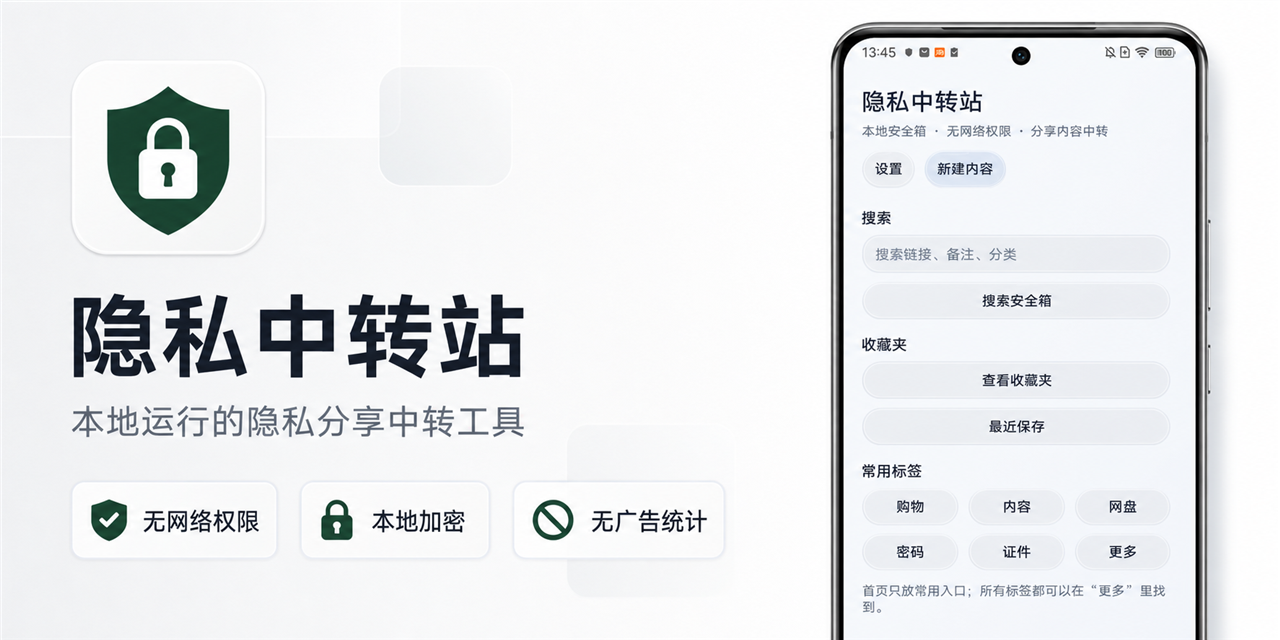
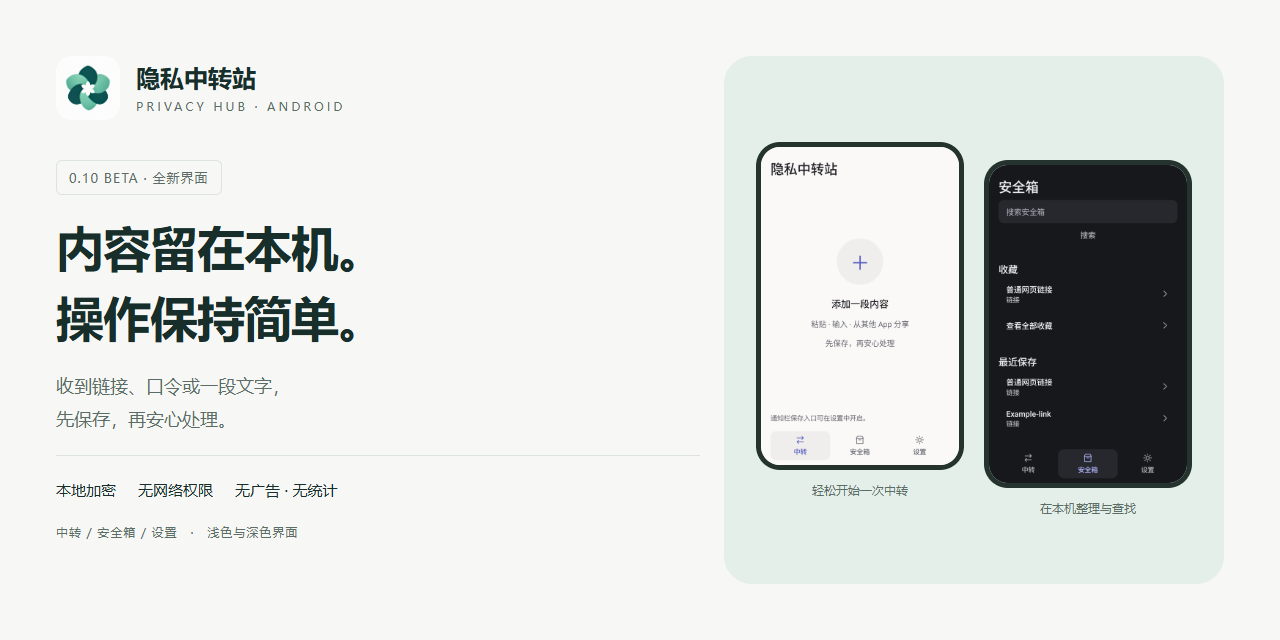
docs: refresh 0.10.0 release page, flower identity and real UI screenshots

diff --git a/README.md b/README.md
@@ -1,6 +1,6 @@
 # 隐私中转站 Android
 
-![隐私中转站：本地运行、无网络权限、本地加密](assets/social-preview.png)
+![隐私中转站 0.10：内容留在本机，操作保持简单。新版花形标识与浅深色真实界面](assets/social-preview.png)
 
 一个由用户主动触发、默认离线运行的 Android 隐私中转工具。即使关闭购物、内容和网盘 App 的剪贴板读取能力，也能通过系统分享或通知栏入口保存、识别并打开收到的链接和口令。
 
@@ -8,7 +8,16 @@
 
 **[下载最新版 APK](https://github.com/hzy7003-bit/PrivacyHub-Android-Preview/releases/latest)** · **[查看隐私证据](docs/SecurityEvidence.md)** · **[安装说明](docs/Install.md)**
 
-> 当前公开测试版：`v0.9.27-beta`。公测包使用独立正式证书签名；已安装 Debug 包的设备不能直接覆盖安装 Release 包。
+> 当前公开测试版：`v0.10.0-beta`。沿用原正式证书，公开 Release 用户可覆盖升级；Debug 测试包不能与 Release 互相覆盖，请不要为换版本直接卸载有数据的应用。
+
+## 这次，界面重新整理了
+
+- **中转**：粘贴、输入或从其他 App 分享，先保存，再处理；空闲页不展示敏感历史。
+- **安全箱**：搜索、收藏、最近保存与分类，各有明确入口；查看和编辑分开。
+- **设置**：通知快捷操作、隐私选项与使用指南按需开启。
+- 新花中花标识、统一浅深色界面；通知紧凑内容里直接提供两个操作，按钮更轻巧。
+
+仍然使用 Android 原生界面，不新增账号、联网权限或云服务。新版说明和兼容性边界见 [更新日志](CHANGELOG.md) 与 [已知问题](docs/KnownIssues.md)。
 
 ## 早期体验用户：免费永久 Pro
 
@@ -38,10 +47,12 @@
 ## 产品界面
 
 <p align="center">
-  <img src="assets/screenshots/home.png" width="360" alt="隐私中转站首页，包含搜索、收藏、最近保存和常用标签" />
+  <img src="assets/screenshots/home.png" width="240" alt="新版中转空闲页：添加一段内容，先保存再处理" />
+  <img src="assets/screenshots/vault.png" width="240" alt="新版安全箱：搜索、收藏和最近保存，仅虚构示例" />
+  <img src="assets/screenshots/vault-dark.png" width="240" alt="新版深色安全箱，仅虚构示例" />
 </p>
 
-首页提供搜索、收藏夹、最近保存和常用分类入口。截图仅展示空白界面，不包含安全箱正文、设备码或 License 信息。
+截图取自正式签名 APK 在独立 Android 测试环境中的实际界面，仅裁去系统状态栏和系统导航栏，未重绘 App 界面。内容为公开虚构示例，不使用真实用户安全箱、设备码或 License 信息。通知外框、图标与折叠样式由系统控制，不保证各厂商外观相同。
 
 ## 核心能力
 
@@ -61,7 +72,7 @@
 
 - 使用 Android 官方前台服务和常驻通知，降低普通后台进程被系统立即回收的概率。
 - 服务被系统回收后可按 `START_STICKY` 机制尝试恢复。
-- 用户开启对应选项后，可在设备重启或 App 更新后恢复通知栏入口。
+- App 更新时尝试刷新已开启的通知栏入口；开机恢复由单独选项控制，实际恢复仍受系统限制。
 - 不通过持续唤醒、定时拉起、后台联网或高频任务换取保活，优先控制内存与电量开销。
 
 这是面向长时间可用性的低功耗实现，不是“永不被杀”的承诺。系统强制停止、通知权限关闭，以及三星、vivo、OPPO、小米等厂商 ROM 的自启动或电池策略，仍可能阻止或延迟恢复。
@@ -92,7 +103,7 @@ Android 10+ 和不同厂商 ROM 会限制后台剪贴板读取、通知常驻、
 ## 下载与校验
 
 - [进入 Releases](https://github.com/hzy7003-bit/PrivacyHub-Android-Preview/releases/latest)
[2 lines of base64/hex data omitted]
 - 最低支持 Android 8.0（API 26）
 
 ## 反馈与关注

diff --git a/docs/Privacy.md b/docs/Privacy.md
@@ -13,7 +13,7 @@
 ## 已使用权限
 
 - `POST_NOTIFICATIONS`：显示用户主动开启的通知栏保存入口
-- `RECEIVE_BOOT_COMPLETED`：用户开启通知栏入口后，重启设备时尝试恢复入口
+- `RECEIVE_BOOT_COMPLETED`：用户同时开启通知栏入口与开机恢复选项后，重启设备时尝试恢复入口
 - `FOREGROUND_SERVICE` / `FOREGROUND_SERVICE_SPECIAL_USE`：维持用户主动开启的通知栏快捷入口
 - `USE_BIOMETRIC` / `USE_FINGERPRINT`：敏感模块可选安全验证
 
@@ -28,7 +28,7 @@
 
 通知栏入口启用后，后台服务只负责维持系统前台通知。空闲期间不轮询剪贴板、不发起网络请求、不执行定时扫描、不重复写入数据库，也不持有唤醒锁。读取、解析和保存只在用户点击通知动作后短暂执行。
 
-服务使用 `START_STICKY` 提高被系统回收后的恢复机会；用户开启恢复选项后，也会在设备重启或 App 更新后尝试恢复通知栏入口。这些机制旨在兼顾长时间可用性与低后台占用，不绕过 Android 电量管理，也不保证在所有厂商 ROM 上永久存活。
+服务使用 `START_STICKY` 提高被系统回收后的恢复机会；App 更新时尝试刷新已开启的通知栏入口，设备重启后的恢复由单独的开机恢复选项控制。这些机制旨在兼顾长时间可用性与低后台占用，不绕过 Android 电量管理，也不保证在所有厂商 ROM 上永久存活。
 
 ## 不使用的权限
 

diff --git a/docs/ProjectStatus.md b/docs/ProjectStatus.md
@@ -1,8 +1,15 @@
 # 隐私中转站公开进度
 
-> 核对日期：2026-08-09
+> 核对日期：2026-09-18
 >
-> 当前版本：`0.9.27-beta`
+> 当前版本：`0.10.0-beta`
+
+## 本次界面更新
+
+- 中转 / 安全箱 / 设置三入口，先保存再处理；空闲中转页不显示敏感历史。
+- Native View 浅深色设计系统、详情查看/编辑分离、花形标识、新版欢迎卡片和使用指南。
+- 通知折叠内容双操作与更紧凑的按钮外观，保留系统外框和厂商行为边界。
+- 同签名升级，不改变数据库 schema、License 或备份格式；具体权限和 APK 哈希见 [安全证据](SecurityEvidence.md)。
 
 ## 已实现的免费功能
 
@@ -41,7 +48,8 @@
 
 ## 当前验证状态
 
-- JVM 单元测试、Android Lint、Debug 和 Release 构建通过。
+- 本轮 Debug 与 Release 各 84 项 JVM 单元测试通过；Android Lint 无错误，Debug 和 Release 构建通过（仍有已有告警）。
+- API 35 独立模拟器验证 0.9.27 正式版覆盖升级至 0.10.0，旧示例标题与正文保留；新版手动保存、中转和收藏通过。不是全 ROM 或全部第三方业务验收。
 - Release 已启用 R8 混淆和资源收缩。
 - Release 未声明网络权限。
 - `e.tb.cn` 完整分享文本、参数保留和 scheme 转换回归测试通过；目标商品页仍需扩展实机覆盖。

diff --git a/docs/Install.md b/docs/Install.md
@@ -5,4 +5,8 @@
 3. 在 Android 系统中允许“安装未知来源应用”。
 4. 安装后根据需要开启通知权限。
 
-如果设备上已经安装过 debug 测试包，release 包可能因为签名不同无法覆盖安装。此时需要先卸载旧测试包，再安装 release 包。卸载会删除本地测试数据，请先确认是否需要保留。
+公开 Release 版本沿用同一正式证书，可以覆盖升级；升级不要求卸载或清除数据。
+
+如果设备已安装 Debug 测试包，不能直接覆盖安装 Release 包。请优先继续使用同签名 Debug 更新；需要换签名线时，先确认加密备份和恢复方案，再自行决定是否卸载。卸载会删除本地数据，不要为解决图标或签名提示贸然卸载。
+
+APK 采用正式签名、R8 混淆和资源收缩，直接安装即可，不需要解压密码。混淆不是源码加密。文件哈希和证书摘要见 [安全与构建证据](SecurityEvidence.md)。

diff --git a/CHANGELOG.md b/CHANGELOG.md
@@ -1,5 +1,15 @@
 # 更新日志
 
+## v0.10.0-beta — 2026-09-18
+
+- 重做中转 / 安全箱 / 设置三入口、浅深色界面，以及详情查看与编辑流程。
+- 全新花中花图标、欢迎说明与现行功能使用指南。
+- 通知紧凑内容直接显示“保存到安全箱”和“保存并跳转”，减小按钮视觉体积但保留点按区域；系统仍可分组和折叠。
+- 改善草稿重建、安全锁返回、分享后台导航；App 更新后尝试刷新已启用的通知。
+- 沿用正式签名与本地数据库，不新增联网权限、广告或统计；R8 混淆和资源收缩不等于源码加密。
+- 已知：部分 OriginOS 设备覆盖升级后可能暂时显示旧图标，一台 Android 16 设备重启并打开 App 后恢复。无需为此卸载或清数据。
+- 第三方 App 跳转、多 ROM、极大字体及辅助功能仍需持续验证，不承诺全场景兼容。
+
 ## v0.9.27-beta
 
 修复：

diff --git a/docs/KnownIssues.md b/docs/KnownIssues.md
@@ -1,5 +1,7 @@
 # 已知问题
 
+- 部分系统可能缓存覆盖升级前的通知图标；若应用信息已显示新花形、通知仍是盾牌，可先重开应用或刷新通知，仍无效时在方便时重启手机。一台 OriginOS 16 设备经重启并打开 App 后恢复；这不是全 ROM 保证，不必卸载或清除安全箱。
+- 双按钮放在本条通知的紧凑内容中，但系统仍可能分组、裁切或隐藏整条通知；不保证“永不折叠”。
 - 部分 ROM 会杀掉通知栏保存入口。
 - 部分 App 不支持或不展示 `ACTION_PROCESS_TEXT` 文本处理入口。
 - 控制中心磁贴读取剪切板在不同 Android 版本和国产 ROM 上表现不一致。
